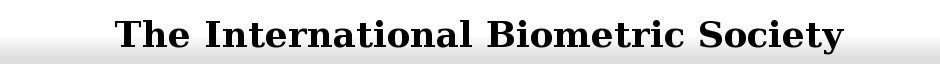
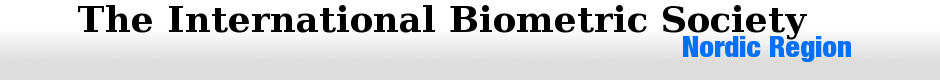
'Pretty' gradient header

Changed region(s): [[0.0617, 0.0625, 0.9255, 0.8438]]

diff --git a/css/ibsnr.css b/css/ibsnr.css
@@ -1,23 +1,19 @@
 .header {
    background: #DDD;
    background-image: url(../img/header-940.png);
-   text-align: center;
    margin-top: 20px;
-   height: 64px;
+   height: 80px;
+   border-bottom: 1px solid #888;
 }
 
 .header h1 {
    margin: 0;
    font-size: 32px;
    margin-left: -10000px;
+   text-align: center;
 }
 
 .nav {
-   background: #DDD;
-   border-bottom: 1px solid #888;
-}
-
-.nav ul {
    margin: 4px 10px;
 }
 
